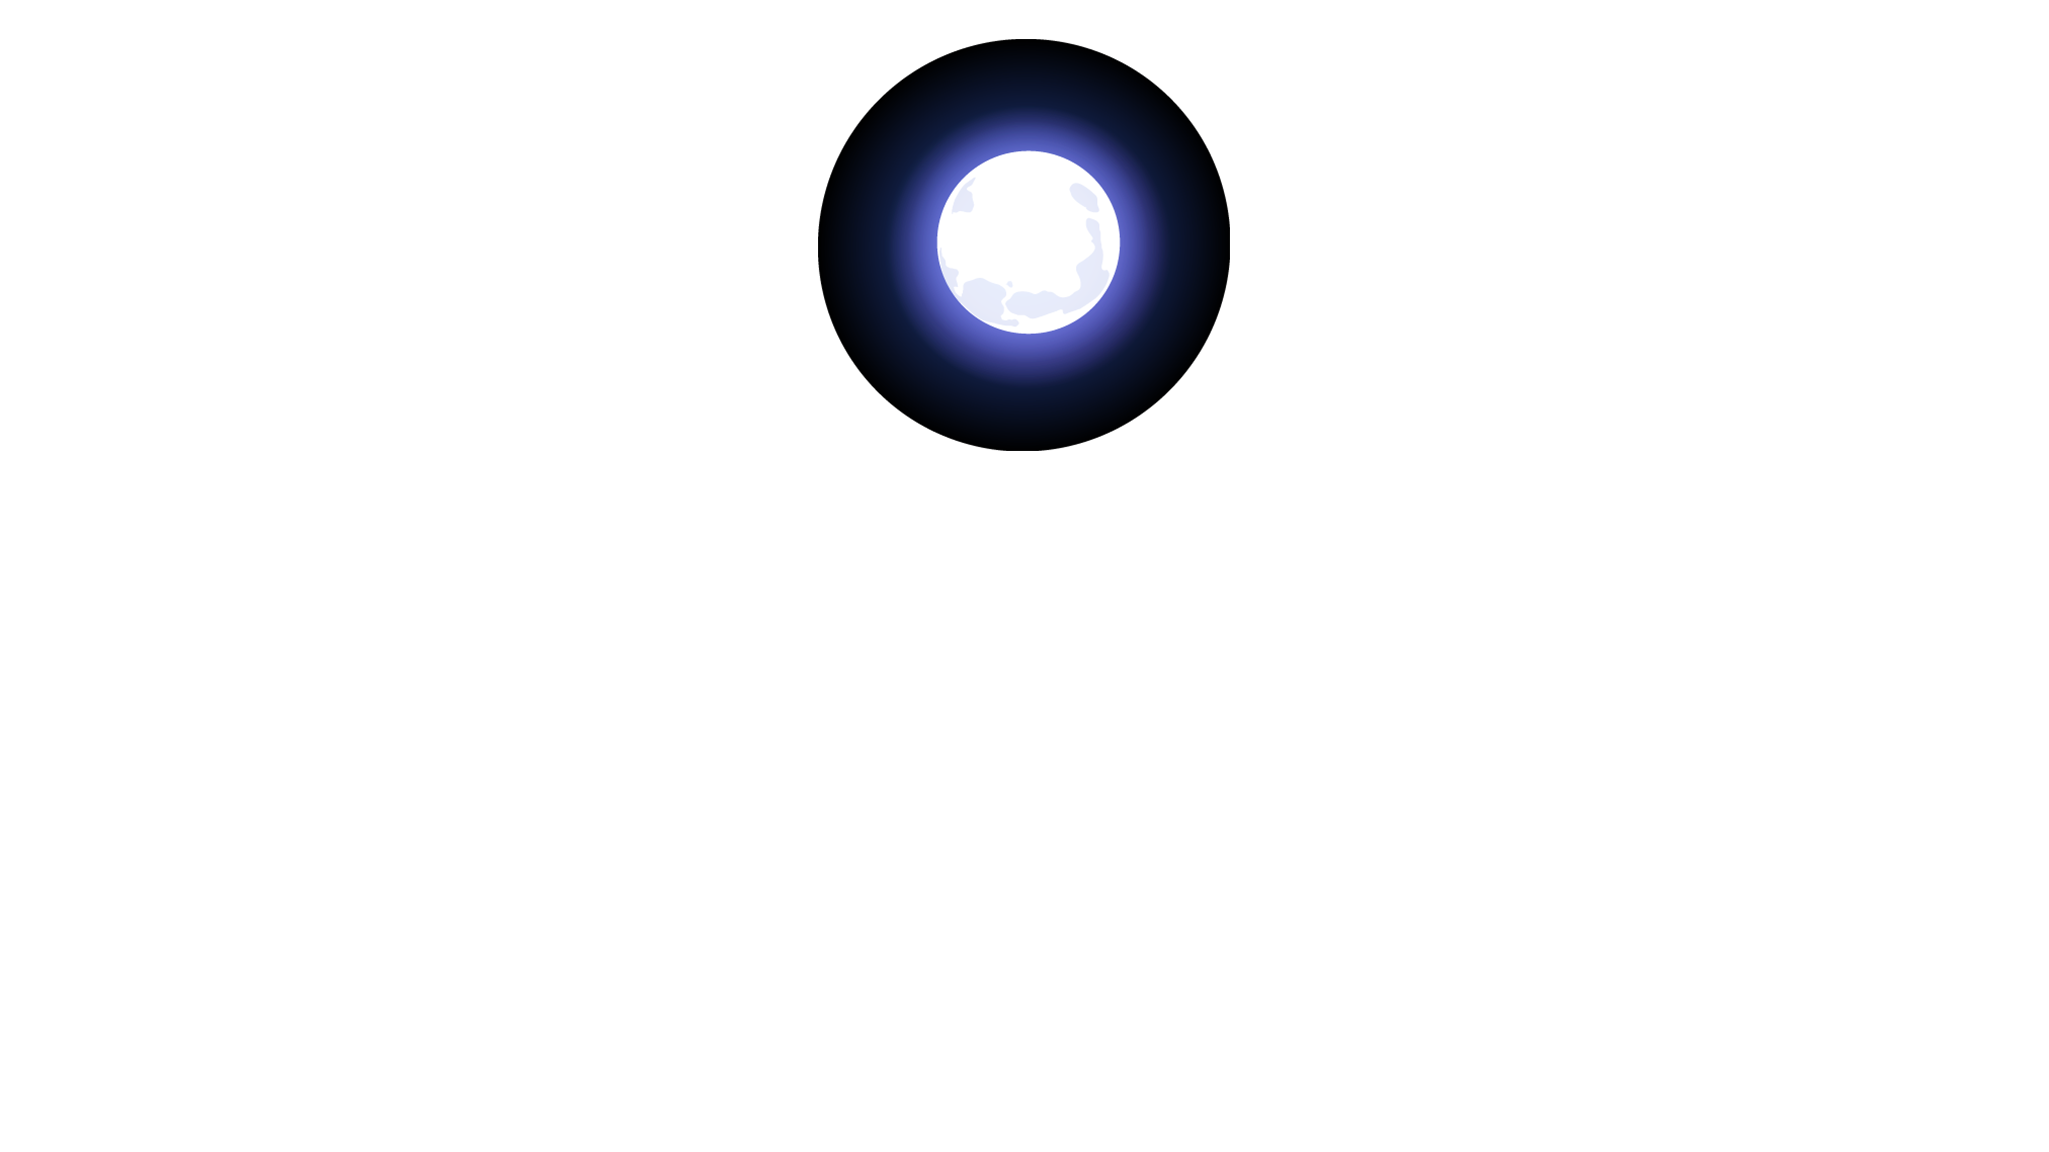
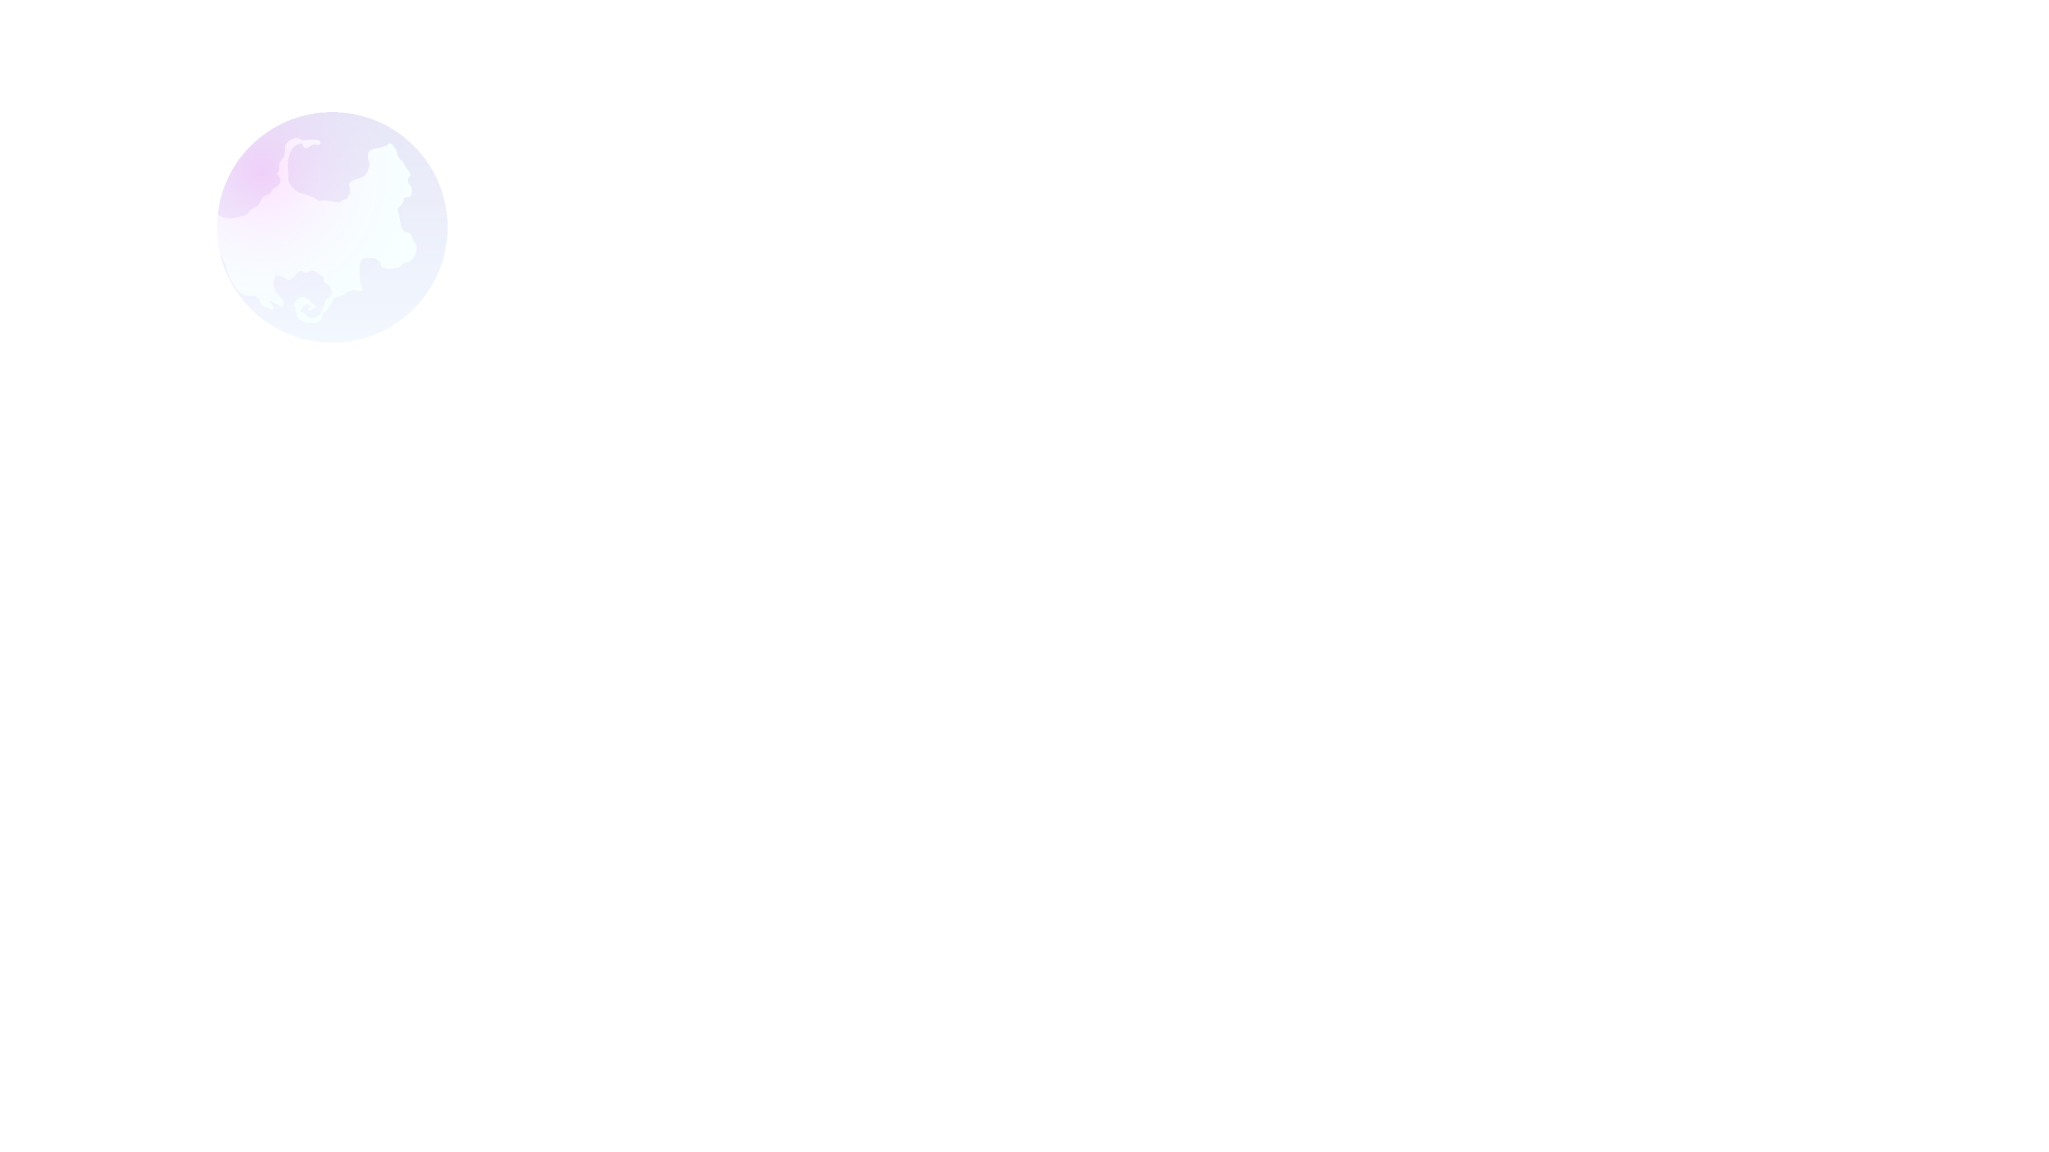
complete prallax scrolling style

Changed region(s): [[0.3748, 0.0312, 0.6247, 0.4062], [0.0937, 0.0938, 0.1874, 0.1875]]

diff --git a/src/pages/Home.js b/src/pages/Home.js
@@ -21,7 +21,8 @@ const Home = () => {
     transform: offsetY !== 0 && `translateX(${offsetY * 0.25}px)`,
   };
   const moonElemetStyle = {
-    transform: offsetY !== 0 && `translateY(${offsetY * 1.05}px)`,
+    transform:
+      offsetY !== 0 && `translate(${offsetY * 0.7}px,${offsetY * 1.05}px)`,
   };
   const mountainsBehindElemetStyle = {
     transform: offsetY !== 0 && `translateY(${offsetY * 0.5}px)`,
@@ -30,8 +31,9 @@ const Home = () => {
     transform: offsetY !== 0 && `translateY(${-offsetY * 0}px)`,
   };
   const textElementStyle = {
-    marginTop: offsetY !== 0 && `${offsetY * 1.5}px`,
+    marginTop: offsetY !== 0 && `${offsetY * 1}px`,
     marginRight: offsetY !== 0 && `${offsetY * 4}px`,
+    right: `${-(window.innerWidth / 2 + 50)}px`,
   };
   const buttonElemetStyle = {
     marginTop: offsetY !== 0 && `${offsetY * 1.5}px`,
@@ -39,7 +41,6 @@ const Home = () => {
   const headerElemetStyle = {
     transform: offsetY !== 0 && `translateY(${-offsetY * 0.5}px)`,
   };
-
   return (
     <>
       <header
@@ -54,7 +55,7 @@ const Home = () => {
             Logo
           </Link>
 
-          <ul className="flex space-x-4">
+          <ul className="flex sm:space-x-4 max-sm:flex-col max-sm:gap-2">
             <li>
               <NavLink
                 to="/"
@@ -102,31 +103,31 @@ const Home = () => {
           </ul>
         </nav>
       </header>
-      <section className="overflow-hidden before:absolute before:bottom-0 before:w-full before:h-32 before:z-10 before:bg-gradient-to-t from-[#1c0522] to-transparent flex items-center justify-center relative p-40  h-screen w-full ">
+      <section className="overflow-hidden before:absolute before:bottom-0 before:w-full before:h-32 before:z-10 before:bg-gradient-to-t from-[rgb(66,23,42)] to-transparent flex items-center justify-center relative p-40  h-screen w-full ">
         <img
           style={starsElemetStyle}
-          className="absolute pointer-events-none left-0 top-0 h-full w-full object-cover"
+          className="absolute pointer-events-none left-0 top-0 h-full w-full sm:object-cover "
           src="images/stars.png"
           alt="stars"
         />
 
         <img
           style={moonElemetStyle}
-          className="absolute pointer-events-none top-0 left-0 h-full w-full object-cover mix-blend-screen"
+          className="absolute pointer-events-none top-0 left-0 h-full w-full object-scale-down mix-blend-screen"
           src="images/moon.png"
           alt="moon"
         />
         <img
           style={mountainsBehindElemetStyle}
-          className="absolute pointer-events-none -top-20 left-0 h-full w-full object-cover z-11"
-          src="images/mountains_behind.png"
-          alt="mountain-behind"
+          className="absolute pointer-events-none top-[70px] left-0 h-full w-full sm:object-cover z-11"
+          src="images/mountains-back.png"
+          alt="mountains-back"
         />
         <h2
           style={textElementStyle}
-          className="absolute right-[-350px] text-white font-extrabold text-[7.5vw] z-9"
+          className="absolute text-white font-extrabold text-[7.5vw] z-9"
         >
-          Moon Light{" "}
+          Desert Scene{" "}
         </h2>
         <button
           style={buttonElemetStyle}
@@ -138,12 +139,12 @@ const Home = () => {
         <img
           style={mountainsFrontElemetStyle}
           className="absolute pointer-events-none top-0
-           left-0 h-full w-full object-cover"
-          src="images/mountains_front.png"
-          alt="mountain-front"
+           left-0 h-full w-full sm:object-cover"
+          src="images/desert-front.png"
+          alt="desert-front"
         />
       </section>
-      <div id="explore" className="relative p-10 bg-[#1c0522]">
+      <div id="explore" className="relative p-10 bg-[rgb(66,23,42)]">
         <h2 className="text-4xl mb-5 text-bold text-white">
           Parallax Scrolling
         </h2>
@@ -167,7 +168,18 @@ const Home = () => {
           websites and create a more engaging user experience. It has been
           popularly used in storytelling websites, promotional pages, and
           landing pages, as it can captivate users and encourage them to explore
-          the content further.
+          the content further. In web design, parallax scrolling involves
+          positioning different elements, such as images or text, on separate
+          layers and then moving these layers at varying speeds as the user
+          scrolls down the webpage. This creates a visually engaging and dynamic
+          effect, making the website more interactive and immersive. Parallax
+          scrolling can be used to tell a story, showcase products, or simply
+          add an aesthetically pleasing touch to the website. In video games,
+          parallax scrolling has been used since the early days of 2D games to
+          simulate depth in a side-scrolling environment. By moving background
+          layers slower than the foreground layers, developers could create a
+          sense of distance and movement, even though the game is actually
+          presented on a two-dimensional plane.
           <br />
           While parallax scrolling can be visually impressive, it's important to
           consider that excessive use of the effect can also lead to usability

diff --git a/tailwind.config.js b/tailwind.config.js
@@ -1,7 +1,9 @@
 /** @type {import('tailwindcss').Config} */
 module.exports = {
   content: ["./src/**/*.{js,jsx,ts,tsx}"],
-  theme: {},
+  theme: {
+    extend: {},
+  },
   variants: {},
   plugins: [],
 };
